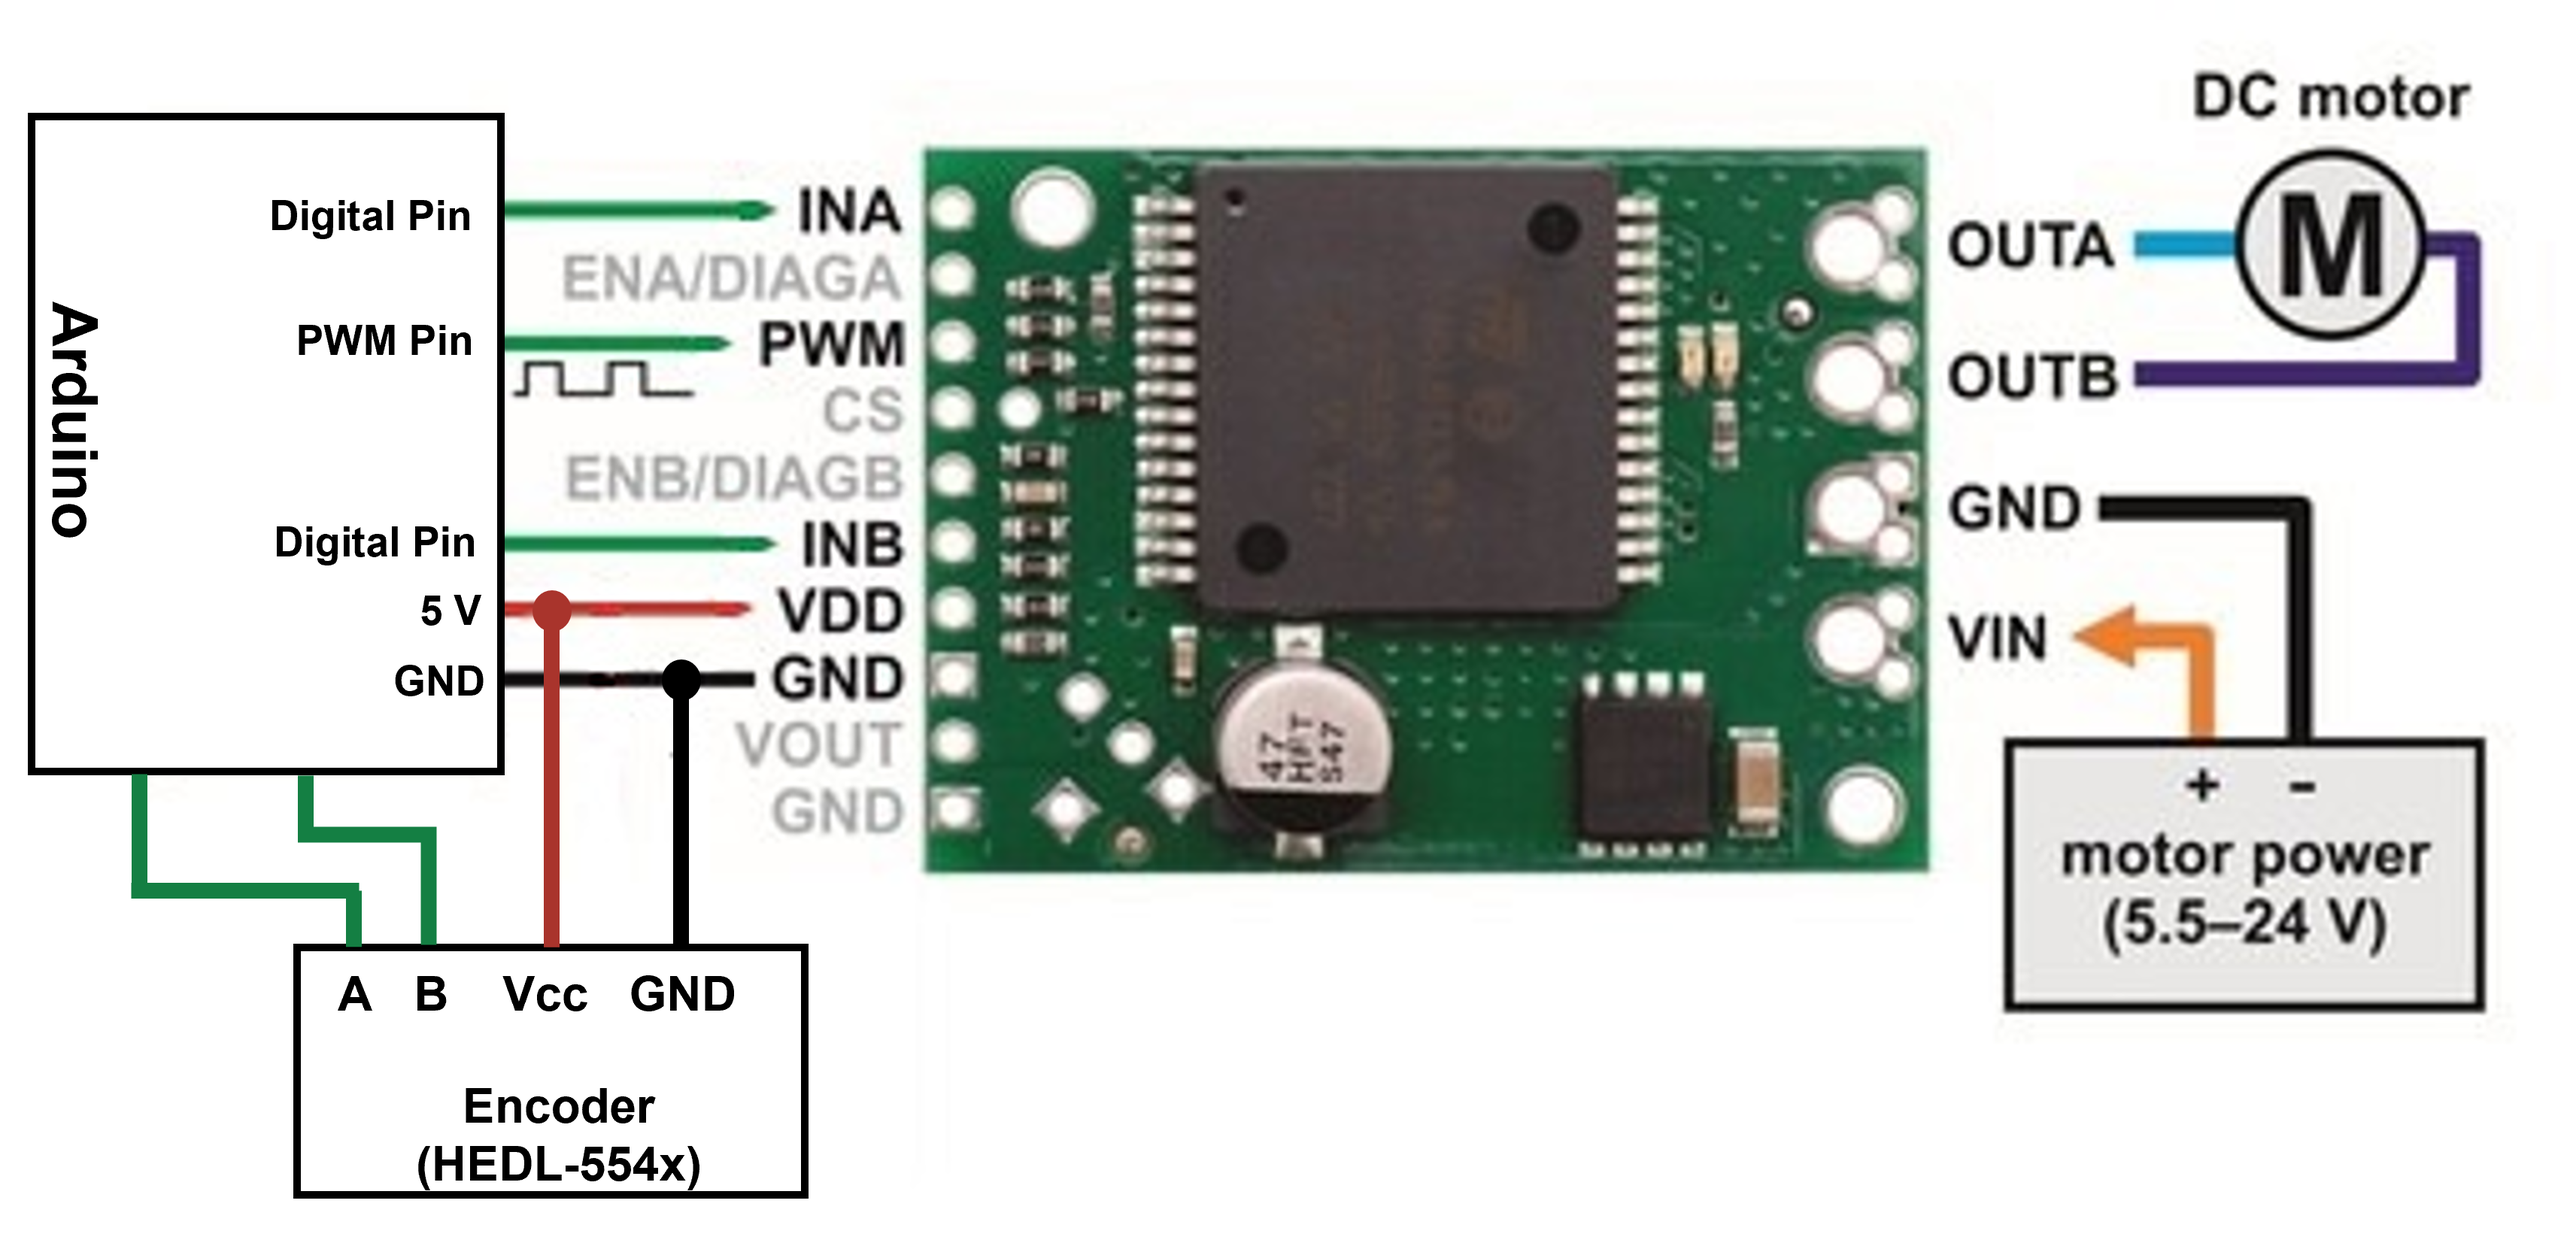
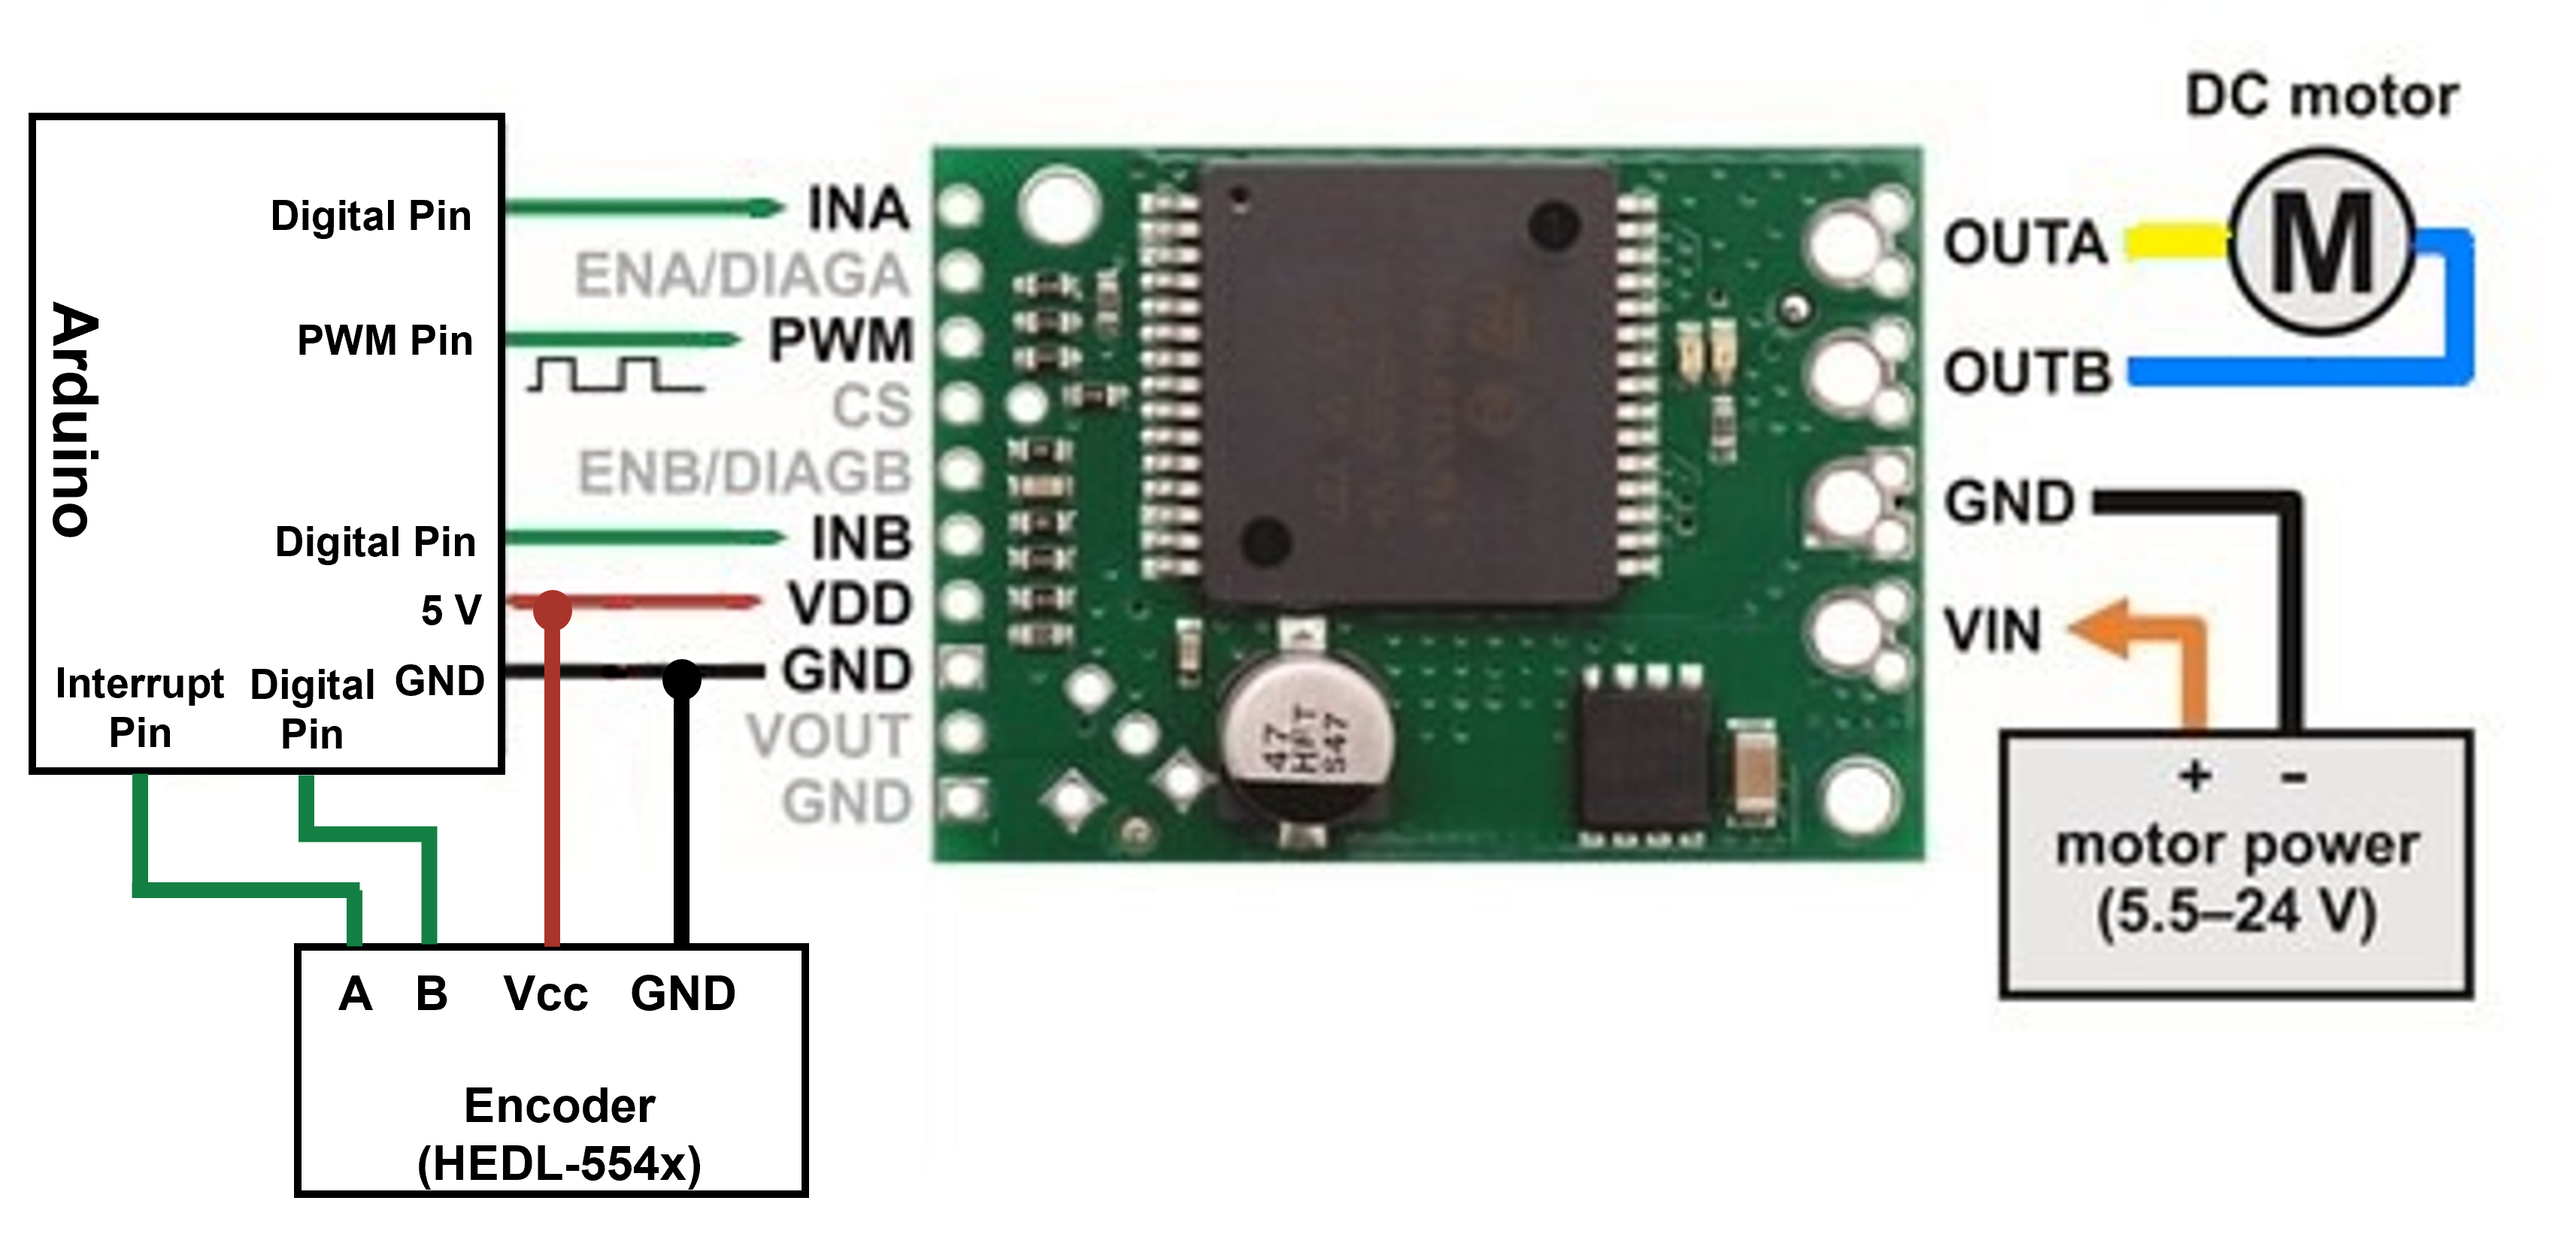
ソースコード修正

Changed region(s): [[0.0, 0.0932, 0.9636, 0.9939], [0.0, 0.2485, 0.0311, 0.4348], [0.8393, 0.0621, 0.9636, 0.0932]]

diff --git a/src/SlideRail/test.md b/src/SlideRail/test.md
@@ -9,8 +9,8 @@
 ```
 //ピン番号
 /*-----モータ-----*/
-#define MOTORA 10
-#define MOTORB 7
+#define MOTORA 7
+#define MOTORB 10
 #define MOTORP 11
 /*-----エンコーダ-----*/
 #define PINENCA 2
@@ -28,15 +28,16 @@ unsigned char pinENCA;
 unsigned char pinENCB;
 
 /*-----目標設定-----*/
-float target_vel = 0.1;  // 目標速度
+float target_vel = 0.10;  // 目標速度
 
 /*----エンコーダ----*/
 int encValue;         // エンコーダ値
 int oldencValue;      // 直前のエンコーダ値
 
 /*-----PID-----*/
+// 12 V時
 float pid = 0.0;             // T = Kp * e + Kd * e'+ Ki * ∫edt
-float kp = 230;              // P制御の係数
+float kp = 220;              // P制御の係数
 float ki = 0;                // I制御の係数
 float kd = 0;                // D制御の係数
 float f = 220;
@@ -50,12 +51,13 @@ float all_time = 0;
 int motorPWM = 0;
 const int maxPWM = 255;       // モータトルク最高
 const int minPWM = 0;         // モータトルク最低
-const int EPR = 2400;         // モータ一回転あたりのエンコーダ値 
+const int EPR = 4700;         // モータ一回転あたりのエンコーダ値 
 const float r = 0.015;        
 const float CM = 2*r*3.1415;  // 円周
 
 void Pid_calc() {
   encValue = pulses;
+  //Serial.println(encValue);
   int diffencValue = encValue - oldencValue;
   oldencValue = encValue;
 
@@ -70,7 +72,7 @@ void Pid_calc() {
   P = target_vel - v;                   // 比例項 目標速度-現在の速度                
   I += P;                               // 積分項 比例項の総和
   D = (P - prevP)/ dt;                  // 微分項 エンコーダ値-直前のエンコーダ値=角速度
-  pid = kp * P + ki * I + kd * D + f;
+  pid = kp * P + ki * I + kd * D;
   prevP = P;
 
   if(v != 0) Serial.println(v,4); 
@@ -80,14 +82,13 @@ void Pid_calc() {
   motorSpeed += (int)pid;
   // PWM制限
   motorPWM = constrain(abs(motorSpeed), minPWM, maxPWM);
-
   oldtime = now;
 }
 
 // エンコーダーの処理
 void EncCount() {                             // A相変化時に処理
   //currDir=!(digitalRead(PINENCA)^digitalRead(PINENCB));
-  currDir = !(((PIND >> 2) & 0b00000001) ^ ((PIND >> 4) & 0b00000001));
+  currDir = !(((PIND >> PINENCA) & 0b00000001) ^ ((PIND >> PINENCB) & 0b00000001));
   currDir == HIGH ? ++pulses : --pulses;
 }
 
@@ -99,7 +100,7 @@ void setup() {
   pinMode(PINENCA, INPUT);
   pinMode(PINENCB, INPUT);
   Serial.begin(9600);
-  attachInterrupt(PINENCA - 2, EncCount, RISING);
+  attachInterrupt(PINENCA - 2, EncCount, CHANGE);
 }
 
 void loop() {
@@ -110,6 +111,7 @@ void loop() {
     Pid_calc();
 
     // モータ回転
+    //motorPWM = 30;
     analogWrite(MOTORP, motorPWM);
     if (target_vel >= 0)
     { // 正転
@@ -121,6 +123,5 @@ void loop() {
       digitalWrite(MOTORA, HIGH);
       digitalWrite(MOTORB, LOW);
     }
-   
 }
 ```
